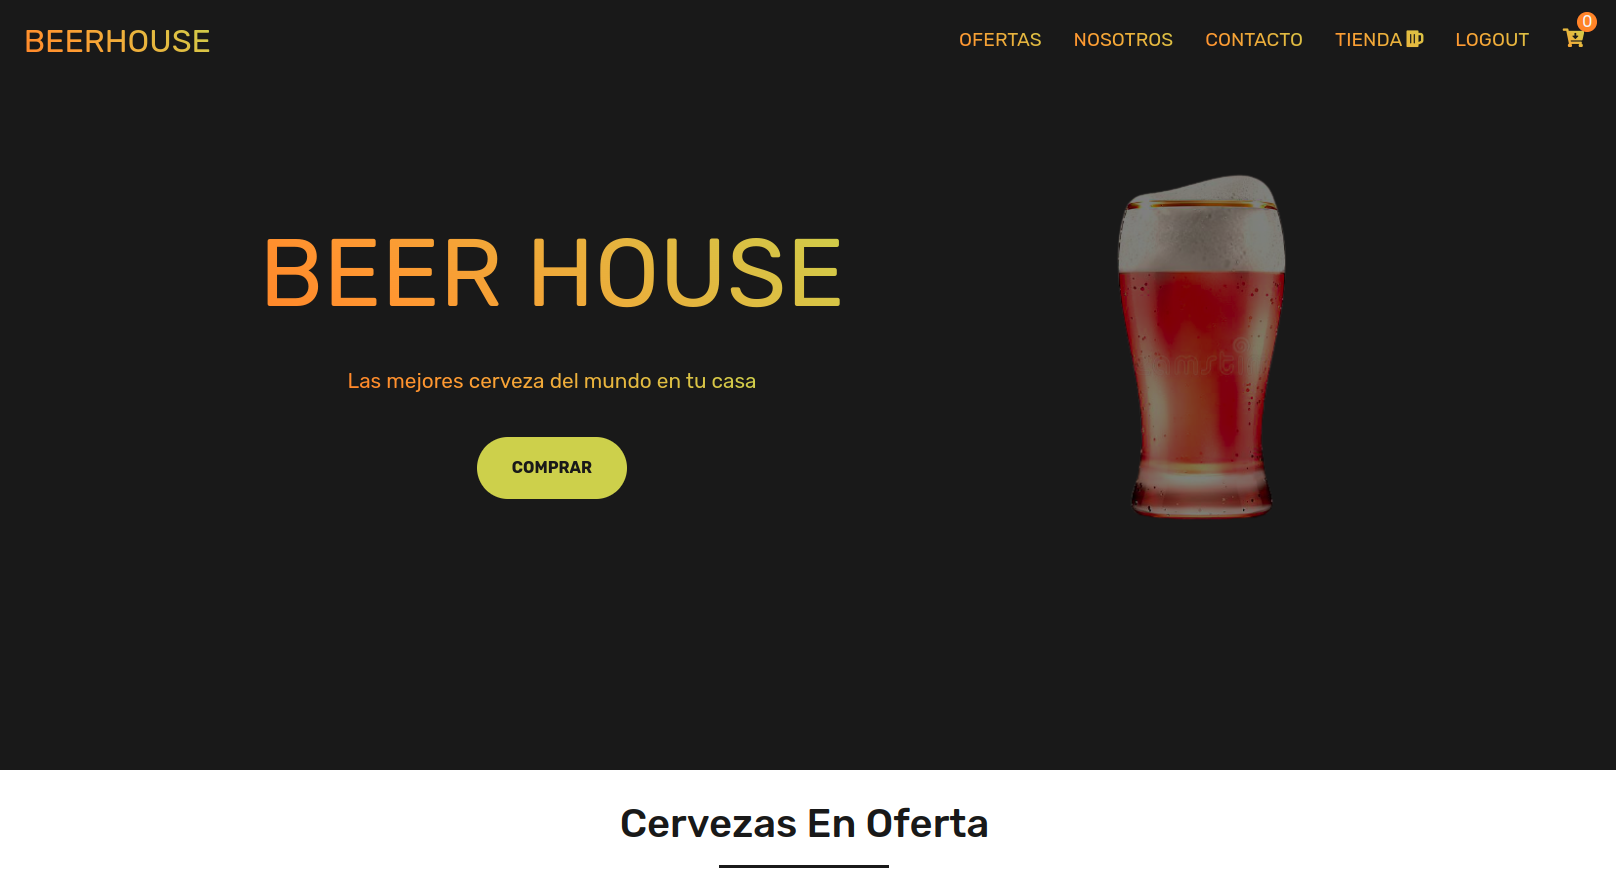
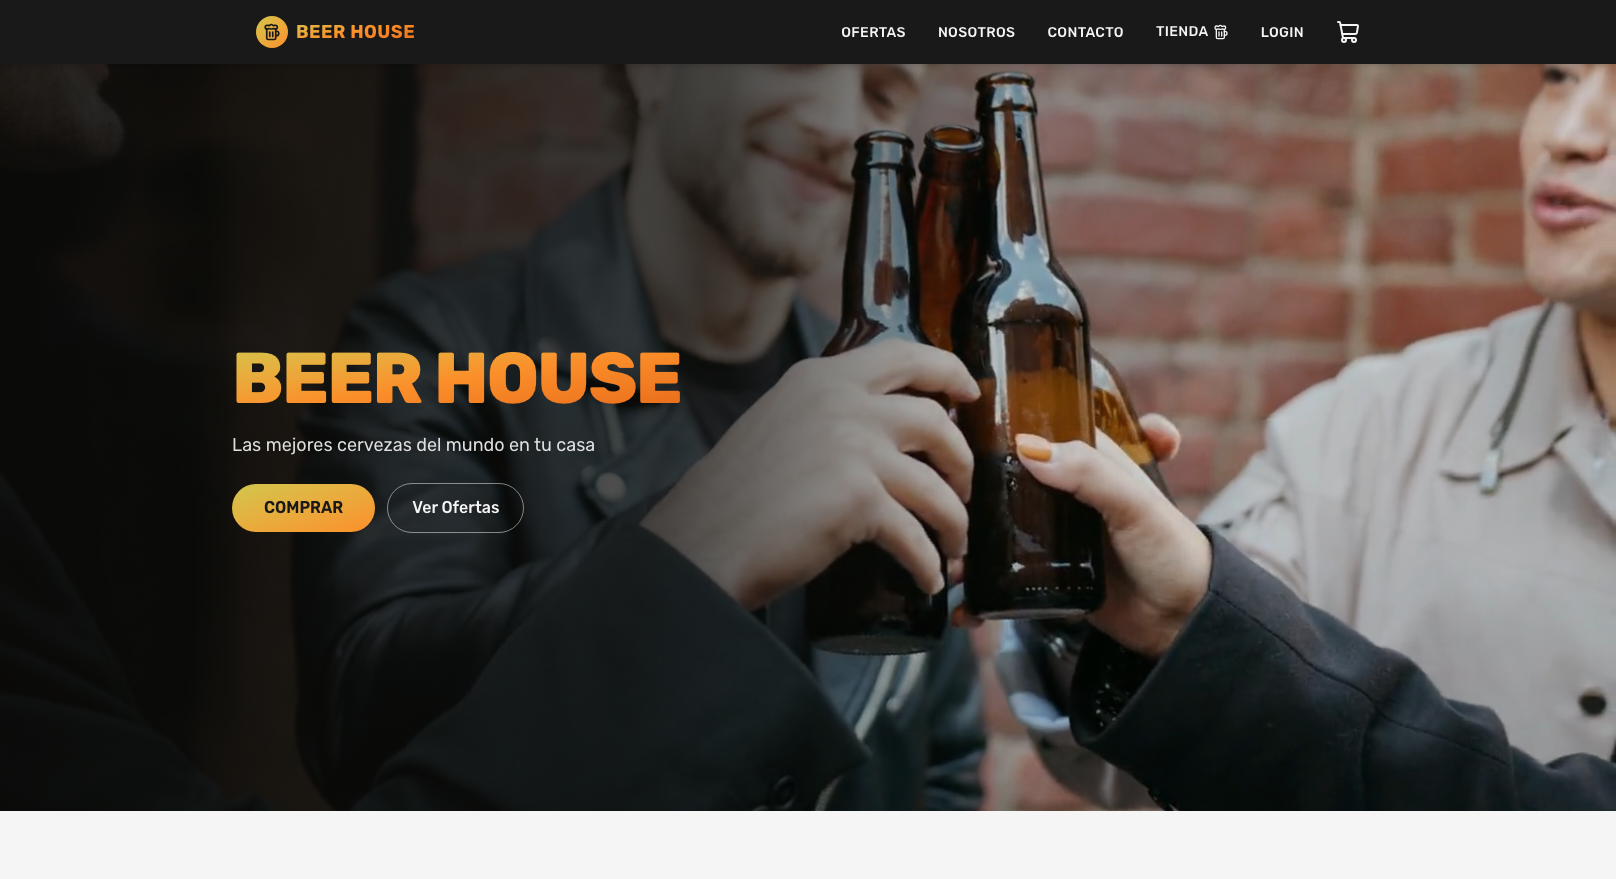
Update BeerHouse project link, screenshot, and description
Points to the temporary Vercel deployment, refreshes the preview image, and
updates copy to reflect the site's current e-commerce features.

diff --git a/utils/projects.ts b/utils/projects.ts
@@ -16,8 +16,8 @@ export const projects = [
   {
     id: 'beerHouse',
     image: '/beer.png',
-    github: 'https://github.com/jorgediazok/beerhome-project',
-    link: 'https://beerhouse.onrender.com/',
+    github: 'https://github.com/jorgediazok/beerhouse',
+    link: 'https://beerhouse-eta.vercel.app/',
     tech: ['React', 'Node.js', 'MongoDB'],
   },
 ];
